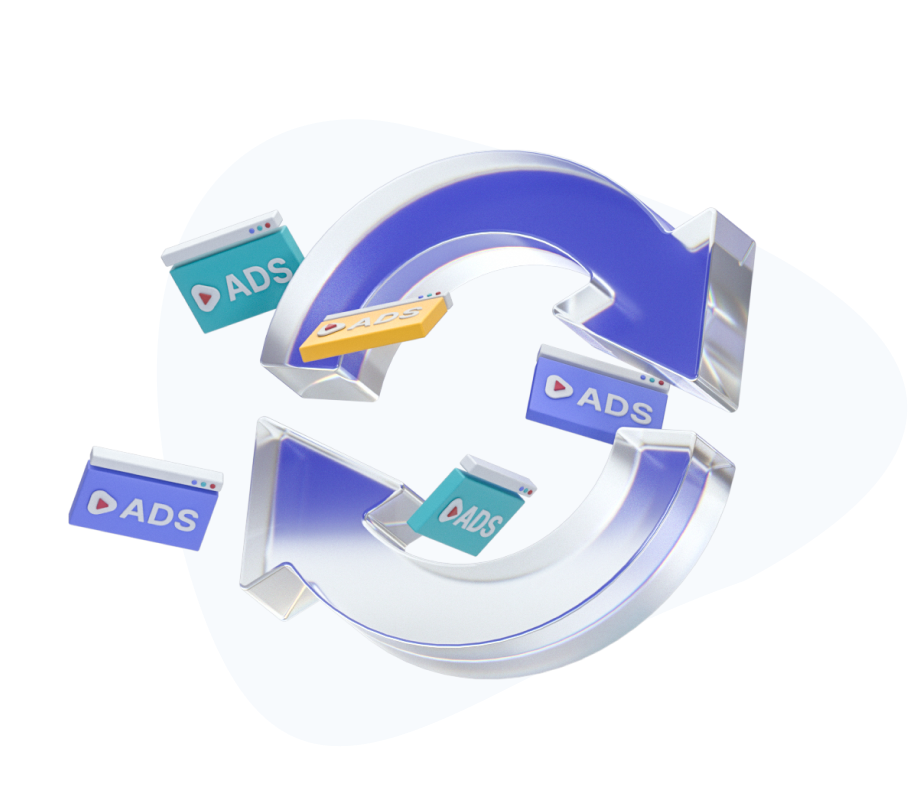
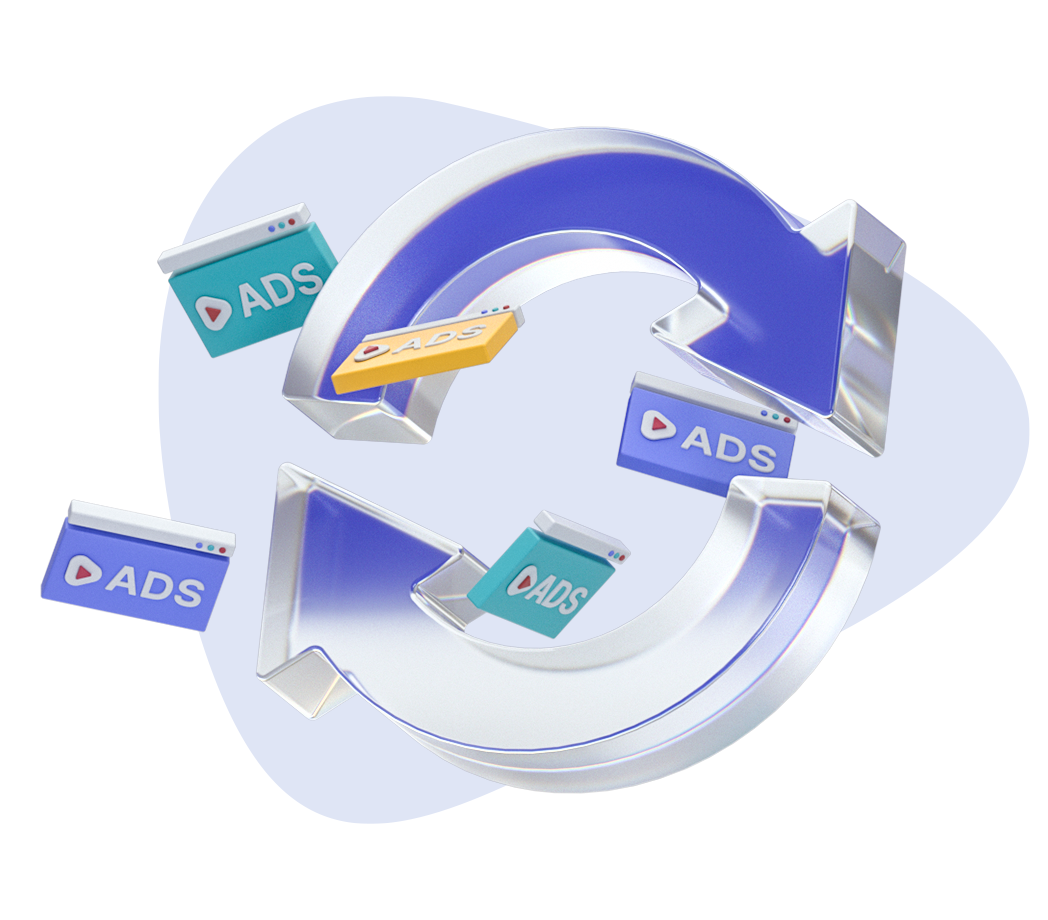
ssp 작업중

diff --git a/index.html b/index.html
@@ -85,13 +85,13 @@
     <section class="feature-white">
       <div class="container">
         <div class="row align-items-center">
-          <div class="col-6">
+          <div class="col-5">
             <span class="exlTab1 lh-1-1 ">애드익스체인지 ADX</span>
             <h2 class="fw-semibold lh-1-2 mb-20 mt-10">Advertisement<br>Exchange</h2>
             <h5 class="fw-medium lh-1-5">신뢰받는 글로벌 표준 광고 플랫폼<br>국내 최대 규모의 RTB 광고 거래 시장</h5>
           </div>
-          <div class="col-6">
-            <img src="/exelbid-homepage/asset/main/sso.png" class="image-fluid">
+          <div class="col-7">
+            <img src="/exelbid-homepage/asset/main/ssp.png" class="image-fluid">
           </div>
         </div>
        </div>
